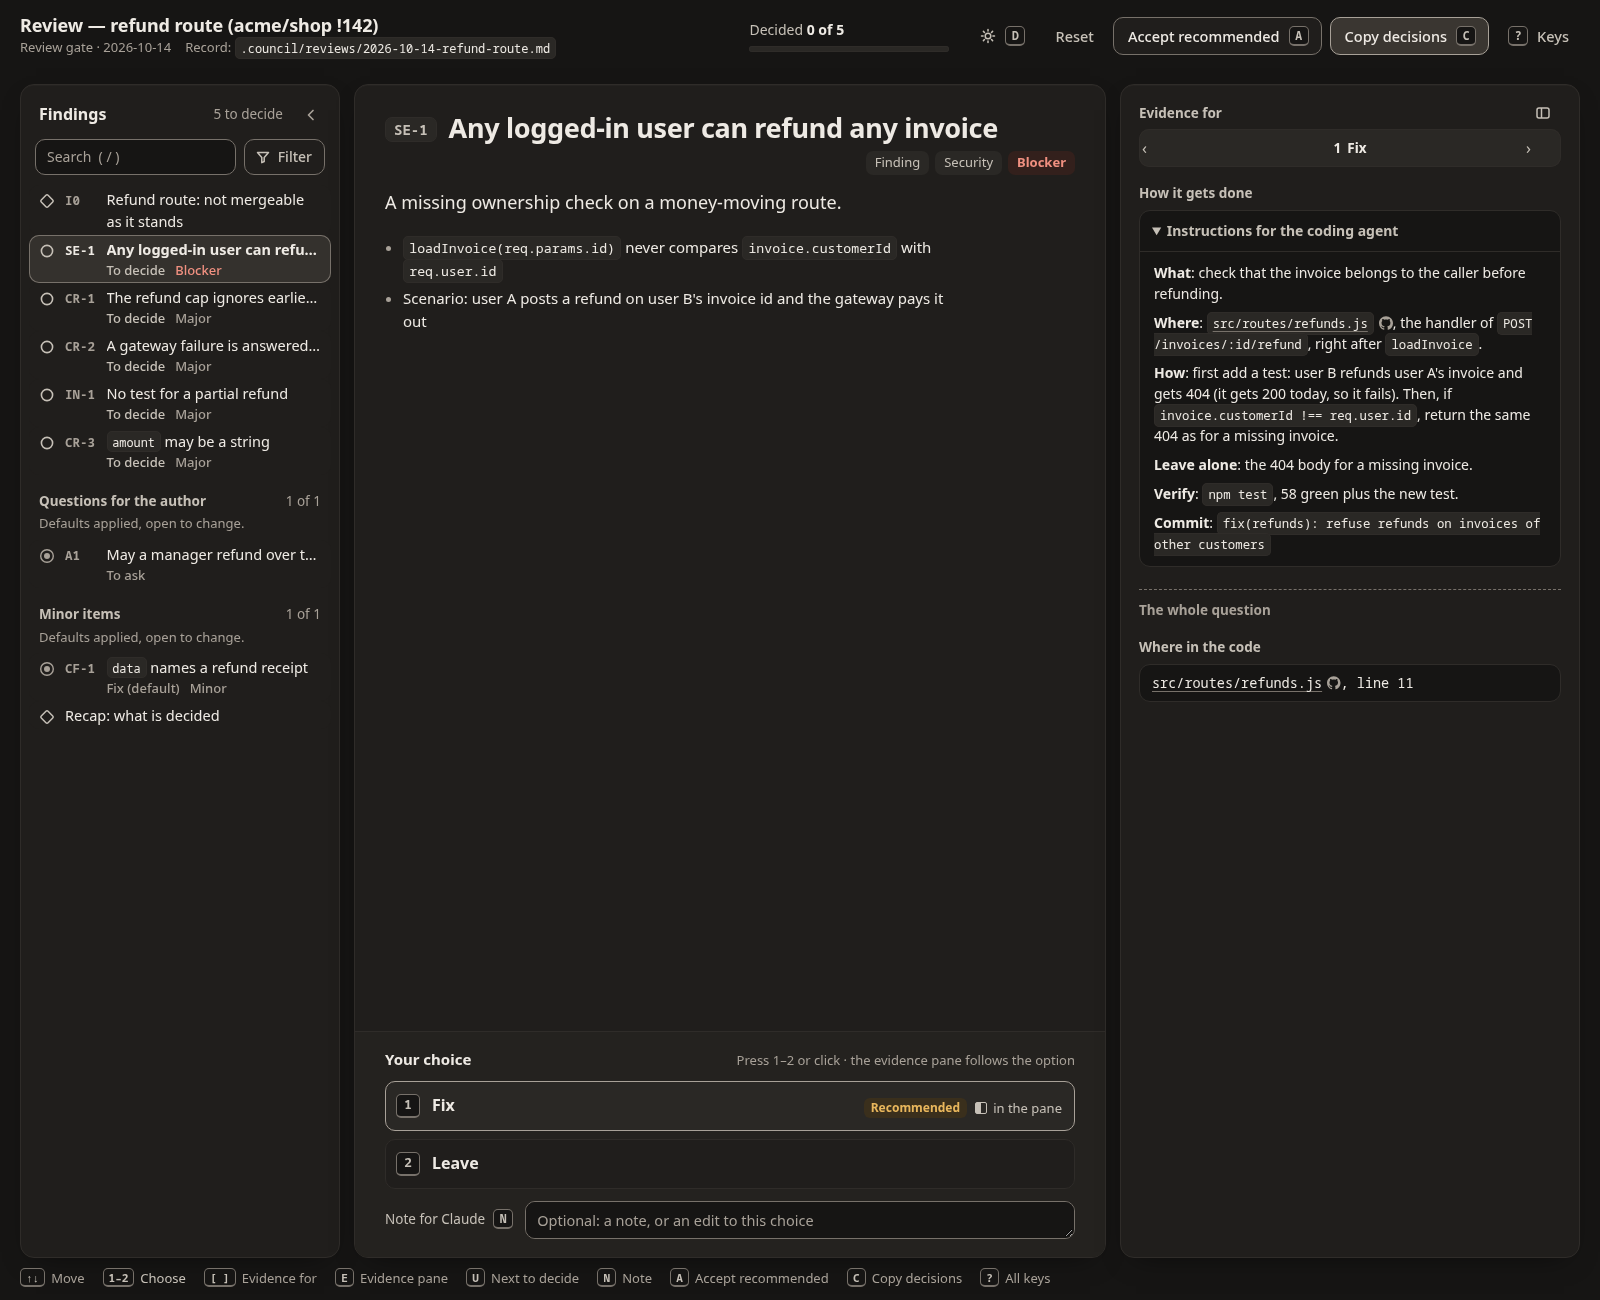
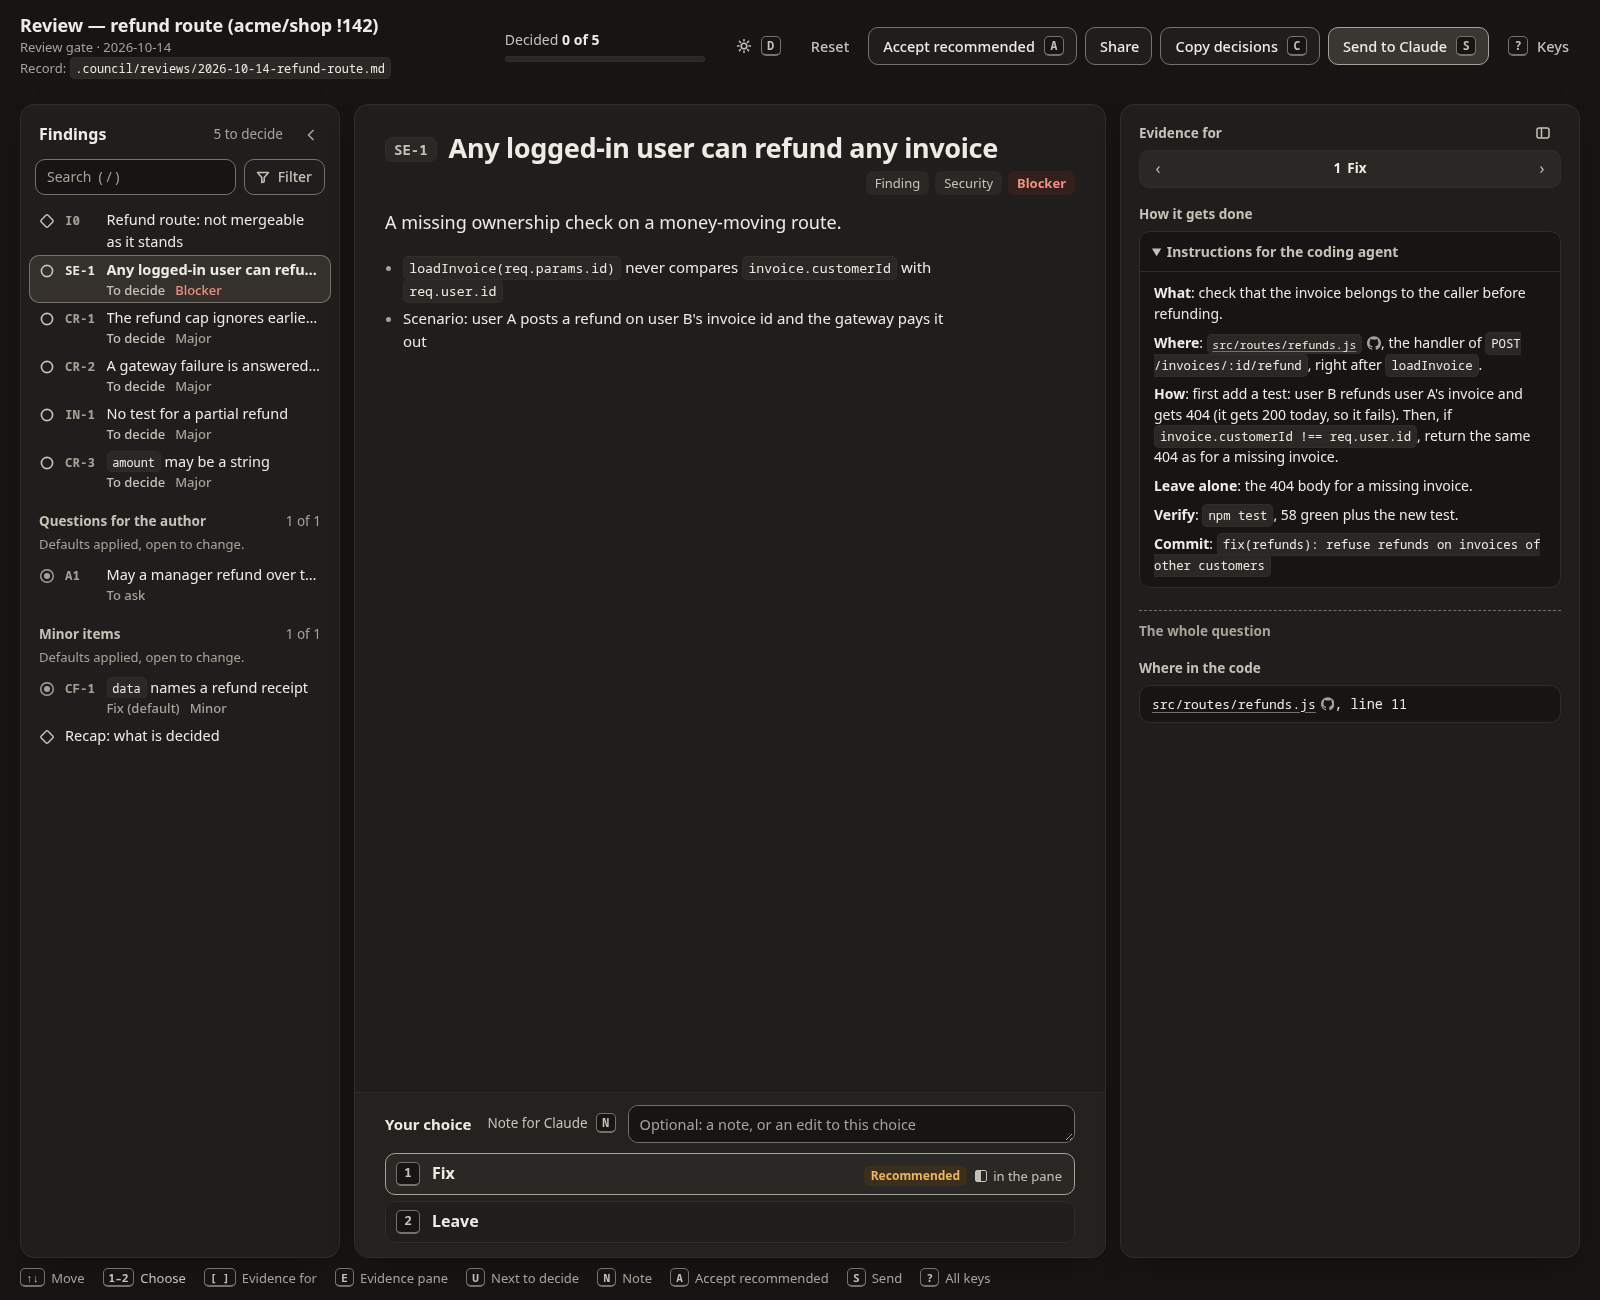
README screenshots show Send to Claude (0.37.1)
The shots are taken on the served page, as it is used: opened as a file,
the bar showed only Copy decisions. Retaken on the current layout.

diff --git a/CHANGELOG.md b/CHANGELOG.md
@@ -2,6 +2,10 @@
 
 What each version of team-skills changed, newest first.
 
+## 0.37.1 — 2026-11-27
+
+- **README screenshots show Send to Claude.** They are taken on the served page, as it is used, not opened as a file; retaken on the current layout.
+
 ## 0.37.0 — 2026-11-26
 
 - **A final rerun on the squashed tree.** After a squash, the gates run once more; green writes a `Final rerun:` line, red halts the run. With no squash there is no rerun.
